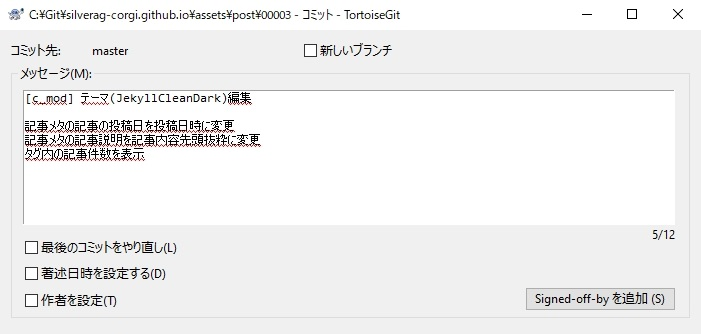
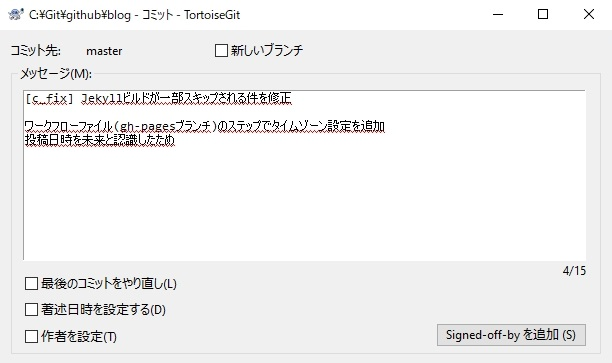
[d_upd] 記事更新

diff --git a/_posts/2021-08-10-00003.md b/_posts/2021-08-10-00003.md
@@ -2,7 +2,7 @@
 layout: post
 title:  Gitのコミットメッセージの記入ルール
 date:   2021/08/10 18:30:00
-update: 2021/09/03 06:30:00
+update: 2022/03/29 21:00:00
 image:  /assets/post/00003/commit_message.JPG
 toc:    true
 tags:
@@ -57,9 +57,9 @@ c_xxxの場合はコードや設定ファイルが対象となる。
 
 例
 {:.filename}
-{% highlight text %}
-[c_mod] テーマ(JekyllCleanDark)編集
-{% endhighlight text %}
+```
+[c_fix] Jekyllビルドが一部スキップされる件を修正
+```
 
 
 ## 変更内容の詳細・理由
@@ -68,11 +68,10 @@ c_xxxの場合はコードや設定ファイルが対象となる。
 
 例
 {:.filename}
-{% highlight text %}
-記事メタの記事の投稿日を投稿日時に変更
-記事メタの記事説明を記事内容先頭抜粋に変更
-タグ内の記事件数を表示
-{% endhighlight text %}
+```
+ワークフローファイル(gh-pagesブランチ)のステップでタイムゾーン設定を追加
+投稿日時を未来と認識したため
+```
 
 # 最後に
 
